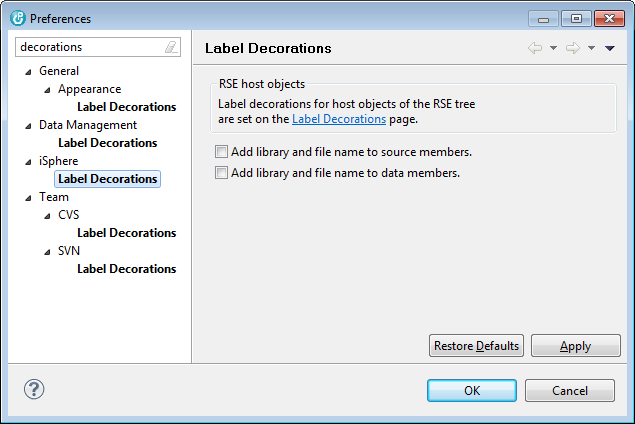
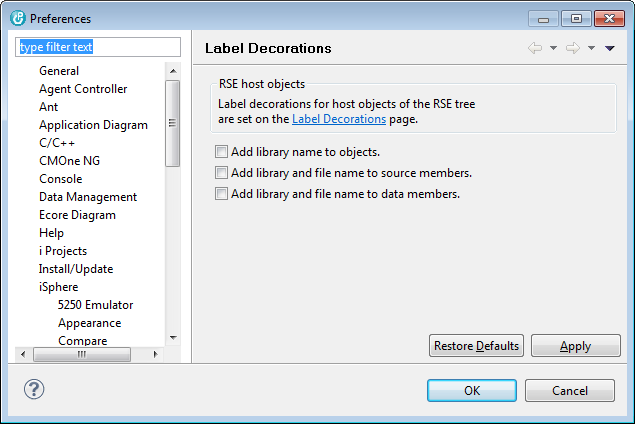
Changed object decorator to optionally display the library name of objects.

diff --git a/eclipse/iSphere Help Core/html/decorator/hostobjectdecorator.html b/eclipse/iSphere Help Core/html/decorator/hostobjectdecorator.html
@@ -20,7 +20,13 @@ The following example demonstrates how a decorated RSE tree looks like.
 <p>
 <img src="assets/rse_decorator.png" 
      align="middle">
-<br>
+<p>
+Optionally you can add the following information to the object decoration:
+<ul>
+<li>Name of the library that contains the object.<br>(All objects that are not a library or a source/physical file.)</li>
+<li>Qualified name of the file that contains the member. (Source physical files.)</li>
+<li>Qualified name of the file that contains the member. (Physical data files.)</li>
+</ul>
 <p>
 <iframe src="../copyright.html" width="100%" frameborder="0" marginheight="0" marginwidth="0"></iframe>
 </body>

diff --git a/eclipse/iSphere Help Core/html/decorator/preferences/preferences.html b/eclipse/iSphere Help Core/html/decorator/preferences/preferences.html
@@ -23,6 +23,12 @@ There is a link to the 'Label Decoration' preferences on the related iSphere pre
 <p>
 <table>
 	<tr>
+		<td valign="top" >Add library name to objects</td>
+		<td valign="top">-</td>
+		<td valign="top">Specifies whether or not the the name of the library that contains the 
+		                 object is added to the object decoration objects.</td>
+	</tr>
+	<tr>
 		<td valign="top" >Add library and file name to source members</td>
 		<td valign="top">-</td>
 		<td valign="top">Specifies whether or not the qualified name of the parent file is added to 

diff --git a/eclipse/iSphere Core Plugin/src/biz/isphere/core/decorators/RSEHostObjectDecorator.java b/eclipse/iSphere Core Plugin/src/biz/isphere/core/decorators/RSEHostObjectDecorator.java
@@ -1,5 +1,5 @@
 /*******************************************************************************
- * Copyright (c) 2012-2014 iSphere Project Owners
+ * Copyright (c) 2012-2016 iSphere Project Owners
  * All rights reserved. This program and the accompanying materials 
  * are made available under the terms of the Common Public License v1.0
  * which accompanies this distribution, and is available at
@@ -14,7 +14,6 @@ import org.eclipse.jface.viewers.ILightweightLabelDecorator;
 
 import biz.isphere.core.preferences.Preferences;
 
-import com.ibm.etools.iseries.comm.interfaces.IISeriesHostMemberBrief;
 import com.ibm.etools.iseries.comm.interfaces.IISeriesHostObjectBrief;
 
 /**
@@ -42,9 +41,15 @@ public class RSEHostObjectDecorator implements ILightweightLabelDecorator {
             return;
         }
 
+        System.out.println(tResource.getName() + ", type/sub type: " + tResource.getType() + "/" + tResource.getSubType());
+
         String mask;
-        if (isExtendedSourceMemberDecorationEnabled(tResource) || isExtendedDataMemberDecorationEnabled(tResource)) {
+        if (isLibrary(tResource)) {
+            mask = " - \"&T\""; //$NON-NLS-1$
+        } else if (isExtendedSourceMemberDecoration(tResource) || isExtendedDataMemberDecoration(tResource)) {
             mask = " - \"&T\" - (&L/&F)"; //$NON-NLS-1$
+        } else if (isExtendedObjectDecoration(tResource)) {
+            mask = " - \"&T\" - (&L)"; //$NON-NLS-1$
         } else {
             mask = " - \"&T\""; //$NON-NLS-1$
         }
@@ -132,20 +137,39 @@ public class RSEHostObjectDecorator implements ILightweightLabelDecorator {
         return null;
     }
 
-    private boolean isExtendedSourceMemberDecorationEnabled(IISeriesHostObjectBrief tResource) {
+    private boolean isExtendedObjectDecoration(IISeriesHostObjectBrief tResource) {
 
         Preferences preferences = Preferences.getInstance();
-        if (tResource instanceof IISeriesHostMemberBrief && isSourceMember(tResource) && preferences.isSourceMemberDecorationExtension()) {
+        if (!isLibrary(tResource) && preferences.isObjectDecorationExtension()) {
             return true;
         }
 
         return false;
     }
 
-    private boolean isExtendedDataMemberDecorationEnabled(IISeriesHostObjectBrief tResource) {
+    private boolean isExtendedSourceMemberDecoration(IISeriesHostObjectBrief tResource) {
 
         Preferences preferences = Preferences.getInstance();
-        if (tResource instanceof IISeriesHostMemberBrief && isDataMember(tResource) && preferences.isDataMemberDecorationExtension()) {
+        if (isSourceMember(tResource) && preferences.isSourceMemberDecorationExtension()) {
+            return true;
+        }
+
+        return false;
+    }
+
+    private boolean isExtendedDataMemberDecoration(IISeriesHostObjectBrief tResource) {
+
+        Preferences preferences = Preferences.getInstance();
+        if (isDataMember(tResource) && preferences.isDataMemberDecorationExtension()) {
+            return true;
+        }
+
+        return false;
+    }
+
+    private boolean isLibrary(IISeriesHostObjectBrief tResource) {
+
+        if ("*LIB".equals(tResource.getType())) {
             return true;
         }
 
@@ -154,7 +178,7 @@ public class RSEHostObjectDecorator implements ILightweightLabelDecorator {
 
     private boolean isSourceMember(IISeriesHostObjectBrief tResource) {
 
-        if ("SRC".equals(tResource.getSubType())) {
+        if (tResource.getFile() != null && "SRC".equals(tResource.getSubType())) {
             return true;
         }
 
@@ -163,7 +187,7 @@ public class RSEHostObjectDecorator implements ILightweightLabelDecorator {
 
     private boolean isDataMember(IISeriesHostObjectBrief tResource) {
 
-        if ("DTA".equals(tResource.getSubType())) {
+        if (tResource.getFile() != null && "DTA".equals(tResource.getSubType())) {
             return true;
         }
 

diff --git a/eclipse/iSphere Core Plugin/src/biz/isphere/core/preferencepages/LabelDecorations.java b/eclipse/iSphere Core Plugin/src/biz/isphere/core/preferencepages/LabelDecorations.java
@@ -1,5 +1,5 @@
 /*******************************************************************************
- * Copyright (c) 2012-2015 iSphere Project Owners
+ * Copyright (c) 2012-2016 iSphere Project Owners
  * All rights reserved. This program and the accompanying materials 
  * are made available under the terms of the Common Public License v1.0
  * which accompanies this distribution, and is available at
@@ -32,6 +32,7 @@ import biz.isphere.core.swt.widgets.WidgetFactory;
 
 public class LabelDecorations extends PreferencePage implements IWorkbenchPreferencePage {
 
+    private Button checkboxIsExtendedObjectDecoration;
     private Button checkboxIsExtendedSourceMemberDecoration;
     private Button checkboxIsExtendedDataMemberDecoration;
 
@@ -82,6 +83,9 @@ public class LabelDecorations extends PreferencePage implements IWorkbenchPrefer
         Composite extendedDecorationsPanel = new Composite(parent, SWT.NONE);
         extendedDecorationsPanel.setLayout(new GridLayout(1, false));
 
+        checkboxIsExtendedObjectDecoration = WidgetFactory.createCheckbox(extendedDecorationsPanel);
+        checkboxIsExtendedObjectDecoration.setText(Messages.Add_library_name_to_objects);
+
         checkboxIsExtendedSourceMemberDecoration = WidgetFactory.createCheckbox(extendedDecorationsPanel);
         checkboxIsExtendedSourceMemberDecoration.setText(Messages.Add_library_and_file_name_to_source_members);
 
@@ -113,6 +117,7 @@ public class LabelDecorations extends PreferencePage implements IWorkbenchPrefer
 
         Preferences preferences = Preferences.getInstance();
 
+        preferences.setObjectDecorationExtension(checkboxIsExtendedObjectDecoration.getSelection());
         preferences.setSourceMemberDecorationExtension(checkboxIsExtendedSourceMemberDecoration.getSelection());
         preferences.setDataMemberDecorationExtension(checkboxIsExtendedDataMemberDecoration.getSelection());
     }
@@ -121,6 +126,7 @@ public class LabelDecorations extends PreferencePage implements IWorkbenchPrefer
 
         Preferences preferences = Preferences.getInstance();
 
+        checkboxIsExtendedObjectDecoration.setSelection(preferences.isObjectDecorationExtension());
         checkboxIsExtendedSourceMemberDecoration.setSelection(preferences.isSourceMemberDecorationExtension());
         checkboxIsExtendedDataMemberDecoration.setSelection(preferences.isDataMemberDecorationExtension());
 
@@ -132,6 +138,7 @@ public class LabelDecorations extends PreferencePage implements IWorkbenchPrefer
 
         Preferences preferences = Preferences.getInstance();
 
+        checkboxIsExtendedObjectDecoration.setSelection(preferences.getDefaultObjectDecorationExtension());
         checkboxIsExtendedSourceMemberDecoration.setSelection(preferences.getDefaultSourceMemberDecorationExtension());
         checkboxIsExtendedDataMemberDecoration.setSelection(preferences.getDefaultDataMemberDecorationExtension());
 

diff --git a/eclipse/iSphere Core Plugin/src/biz/isphere/core/preferences/Preferences.java b/eclipse/iSphere Core Plugin/src/biz/isphere/core/preferences/Preferences.java
@@ -184,6 +184,8 @@ public final class Preferences {
 
     private static final String DECORATION = DOMAIN + "DECORATION."; //$NON-NLS-1$
 
+    private static final String DECORATION_OBJECT_EXTENSION = APPEARANCE + "OBJECT_EXTENSION"; //$NON-NLS-1$
+
     private static final String DECORATION_SOURCE_MEMBER_EXTENSION = APPEARANCE + "SOURCE_MEMBER_EXTENSION"; //$NON-NLS-1$
 
     private static final String DECORATION_DATA_MEMBER_EXTENSION = APPEARANCE + "DATA_MEMBER_EXTENSION"; //$NON-NLS-1$
@@ -455,6 +457,10 @@ public final class Preferences {
         return preferenceStore.getInt(APPEARANCE_AUTO_REFRESH_THRESHOLD);
     }
 
+    public boolean isObjectDecorationExtension() {
+        return preferenceStore.getBoolean(DECORATION_OBJECT_EXTENSION);
+    }
+
     public boolean isSourceMemberDecorationExtension() {
         return preferenceStore.getBoolean(DECORATION_SOURCE_MEMBER_EXTENSION);
     }
@@ -639,6 +645,10 @@ public final class Preferences {
         preferenceStore.setValue(APPEARANCE_AUTO_REFRESH_THRESHOLD, threshold);
     }
 
+    public void setObjectDecorationExtension(boolean enabled) {
+        preferenceStore.setValue(DECORATION_OBJECT_EXTENSION, enabled);
+    }
+
     public void setSourceMemberDecorationExtension(boolean enabled) {
         preferenceStore.setValue(DECORATION_SOURCE_MEMBER_EXTENSION, enabled);
     }
@@ -712,6 +722,7 @@ public final class Preferences {
         preferenceStore.setDefault(APPEARANCE_AUTO_REFRESH_DELAY, getDefaultAutoRefreshDelay());
         preferenceStore.setDefault(APPEARANCE_AUTO_REFRESH_THRESHOLD, getDefaultAutoRefreshThreshold());
         
+        preferenceStore.setDefault(DECORATION_OBJECT_EXTENSION, getDefaultObjectDecorationExtension());
         preferenceStore.setDefault(DECORATION_SOURCE_MEMBER_EXTENSION, getDefaultSourceMemberDecorationExtension());
         preferenceStore.setDefault(DECORATION_DATA_MEMBER_EXTENSION, getDefaultDataMemberDecorationExtension());
     }
@@ -1073,6 +1084,10 @@ public final class Preferences {
 
     public int getDefaultAutoRefreshThreshold() {
         return 5000;
+    }
+
+    public boolean getDefaultObjectDecorationExtension() {
+        return false;
     }
 
     public boolean getDefaultSourceMemberDecorationExtension() {

diff --git a/eclipse/iSphere Core Plugin/src/biz/isphere/core/Messages.java b/eclipse/iSphere Core Plugin/src/biz/isphere/core/Messages.java
@@ -1231,6 +1231,8 @@ public class Messages extends NLS {
     public static String Add_library_and_file_name_to_source_members;
 
     public static String Add_library_and_file_name_to_data_members;
+
+    public static String Add_library_name_to_objects;
     
     /*
      * Warning messages
